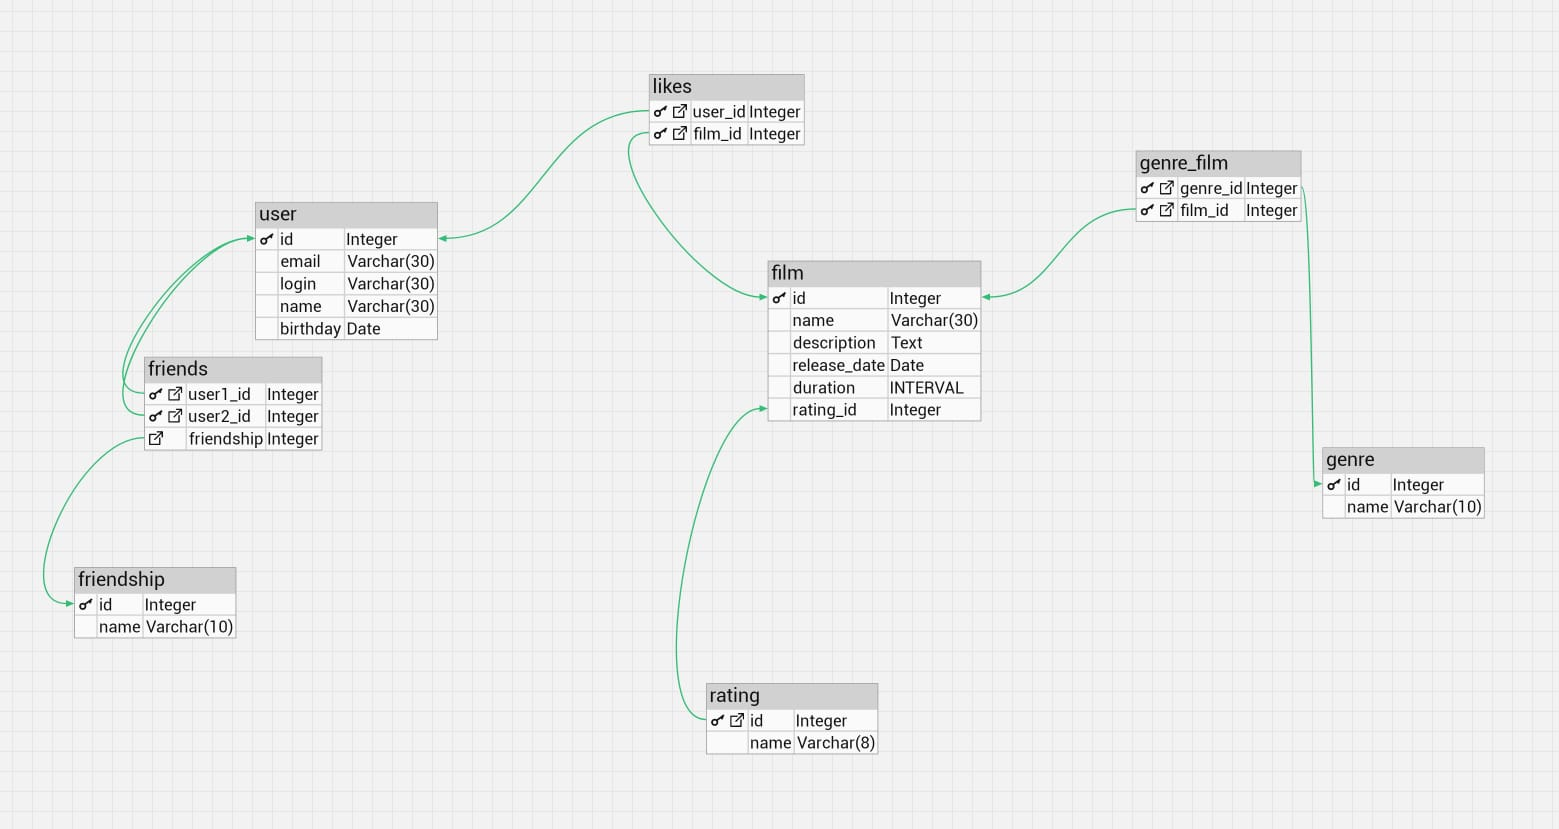
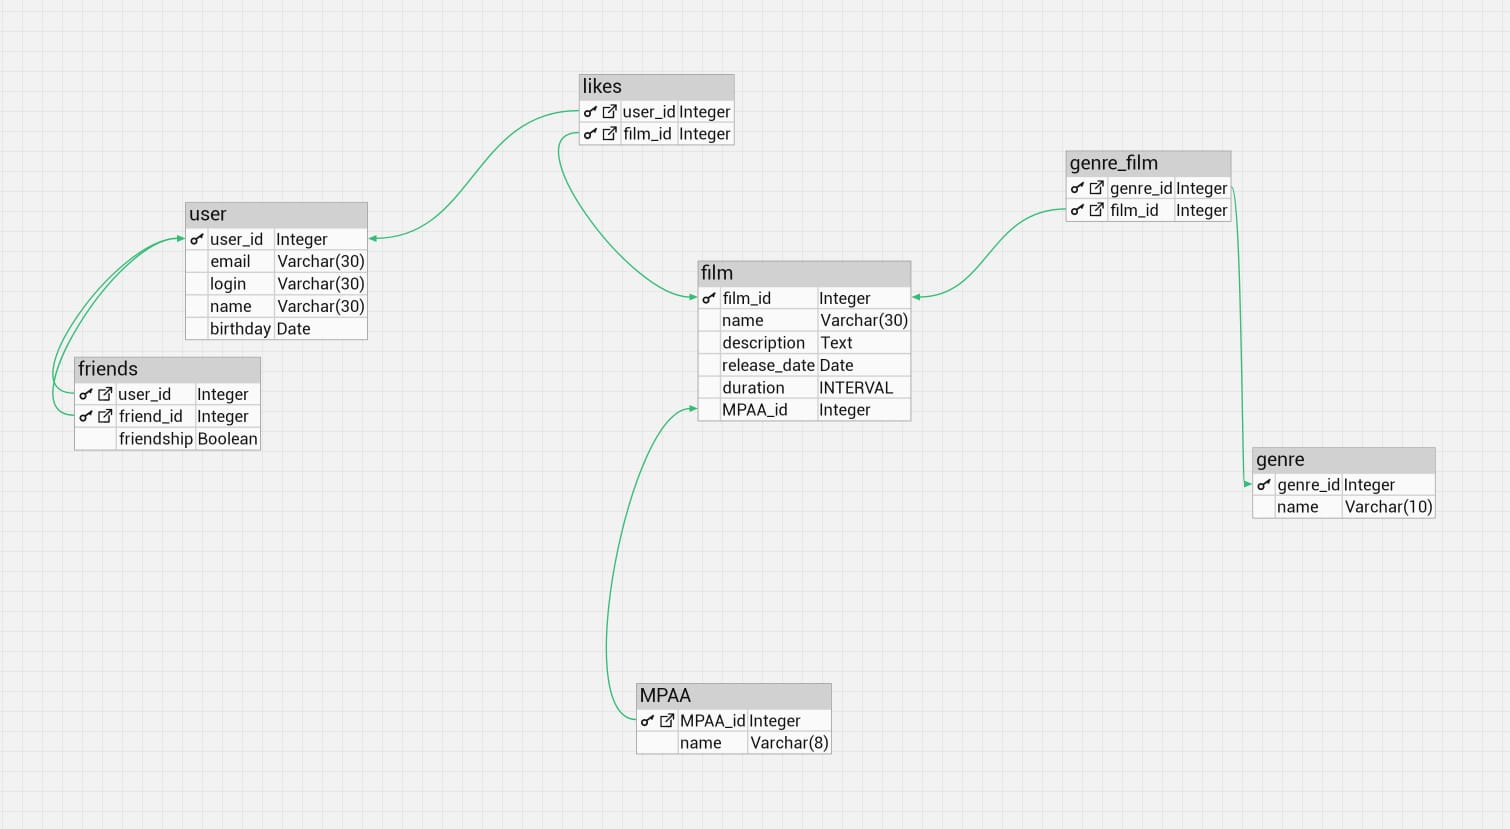
sprint3 fix bugs

diff --git a/src/test/java/ru/yandex/practicum/filmorate/controllers/FilmUserTestData.java b/src/test/java/ru/yandex/practicum/filmorate/controllers/FilmUserTestData.java
@@ -1,7 +1,7 @@
 package ru.yandex.practicum.filmorate.controllers;
 
 import ru.yandex.practicum.filmorate.model.Film;
-import ru.yandex.practicum.filmorate.model.Rating;
+import ru.yandex.practicum.filmorate.model.MPAA;
 import ru.yandex.practicum.filmorate.model.User;
 
 import java.time.Duration;
@@ -10,27 +10,27 @@ import java.time.LocalDate;
 public class FilmUserTestData {
 
     public static Film film1 = new Film(1, "New film", "Some description", LocalDate.of(2020, 10, 13 ), Duration
-            .ofMinutes(120), Rating.G);
+            .ofMinutes(120), MPAA.G);
     public static Film film2 = new Film(2, "New film2", "Some description", LocalDate.of(2020, 10, 13), Duration
-            .ofMinutes(120), Rating.G);
+            .ofMinutes(120), MPAA.G);
     public static Film film3 = new Film(3, "New film3", "Some description", LocalDate.of(2020, 10, 13), Duration
-            .ofMinutes(120), Rating.G);
+            .ofMinutes(120), MPAA.G);
     public static Film film4 = new Film(4, "New film4", "Some description", LocalDate.of(2020, 10, 13), Duration
-            .ofMinutes(120), Rating.G);
+            .ofMinutes(120), MPAA.G);
     public static Film film5 = new Film(5, "New film5", "Some description", LocalDate.of(2020, 10, 13), Duration
-            .ofMinutes(120), Rating.G);
+            .ofMinutes(120), MPAA.G);
     public static Film film6 = new Film(6, "New film6", "Some description", LocalDate.of(2020, 10, 13), Duration
-            .ofMinutes(120), Rating.G);
+            .ofMinutes(120), MPAA.G);
     public static Film film7 = new Film(7, "New film7", "Some description", LocalDate.of(2020, 10, 13), Duration
-            .ofMinutes(120), Rating.G);
+            .ofMinutes(120), MPAA.G);
     public static Film film8 = new Film(8, "New film8", "Some description", LocalDate.of(2020, 10, 13), Duration
-            .ofMinutes(120), Rating.G);
+            .ofMinutes(120), MPAA.G);
     public static Film film9 = new Film(9, "New film9", "Some description", LocalDate.of(2020, 10, 13), Duration
-            .ofMinutes(120), Rating.G);
+            .ofMinutes(120), MPAA.G);
     public static Film film10 = new Film(10, "New film10", "Some description", LocalDate.of(2020, 10, 13), Duration
-            .ofMinutes(120), Rating.G);
+            .ofMinutes(120), MPAA.G);
     public static Film film11 = new Film(11, "New film11", "Some description", LocalDate.of(2020, 10, 13), Duration
-            .ofMinutes(120), Rating.G);
+            .ofMinutes(120), MPAA.G);
 
 
     public static User user1 = new User(1, "dfg@mail.ru", "login", "name", LocalDate.of(1980, 5, 13));

diff --git a/src/main/java/ru/yandex/practicum/filmorate/model/Film.java b/src/main/java/ru/yandex/practicum/filmorate/model/Film.java
@@ -1,8 +1,6 @@
 package ru.yandex.practicum.filmorate.model;
 
-import lombok.AllArgsConstructor;
 import lombok.Data;
-import lombok.NoArgsConstructor;
 
 import javax.validation.constraints.*;
 
@@ -29,11 +27,11 @@ public class Film {
 
    private Set<Genre> genres;
 
-   private Rating rating;
+   private MPAA rating;
 
 
 
-   public Film(int id, String name, String description, LocalDate releaseDate, Duration duration, Rating rating) {
+   public Film(int id, String name, String description, LocalDate releaseDate, Duration duration, MPAA MPAA) {
       this.id = id;
       this.name = name;
       this.description = description;
@@ -41,6 +39,6 @@ public class Film {
       this.duration = duration;
       this.likes = new HashSet<>();
       this.genres = new HashSet<>();
-      this.rating = rating;
+      this.rating = MPAA;
    }
 }

diff --git a/src/main/java/ru/yandex/practicum/filmorate/model/Friends.java b/src/main/java/ru/yandex/practicum/filmorate/model/Friends.java
@@ -6,6 +6,6 @@ import lombok.Data;
 public class Friends {
     int user1_id;
     int user2_id;
-    Friendship friendship;
+   boolean friendship;
 
 }

diff --git a/src/main/java/ru/yandex/practicum/filmorate/model/MPAA.java b/src/main/java/ru/yandex/practicum/filmorate/model/MPAA.java
@@ -1,6 +1,6 @@
 package ru.yandex.practicum.filmorate.model;
 
-public enum Rating {
+public enum MPAA {
     G,
     PG,
     PG13,

diff --git a/README.md b/README.md
@@ -2,6 +2,7 @@
 Template repository for Filmorate project.
 
 
+
 ![img.png](src/main/resources/img.png)
 
 получить N первых фильмов по количеству лайков
@@ -12,15 +13,15 @@ GROUP BY film_id
 ORDER BY COUNT(user_id) DESC
 LIMIT N;
 
-получить друзей юзера user_id
+получить друзей юзера user1_id
 SELECT * FROM user
-WHERE id IN(SELECT user1_id FROM  friends WHERE user2_id = user_id);
+WHERE id IN(SELECT user_id FROM  friends WHERE friend_id = user1_id);
 
 
 получить общих друзей iduser1 и iduser2
 SELECT * 
 FROM user
-WHERE id IN(SELECT user1_id FROM  friends WHERE user2_id = iduser1)
-AND id IN(SELECT user1_id FROM  friends WHERE user2_id = iduser2);
+WHERE id IN(SELECT user_id FROM  friends WHERE friend_id = iduser1)
+AND id IN(SELECT user_id FROM  friends WHERE friend_id = iduser2);
 
 
